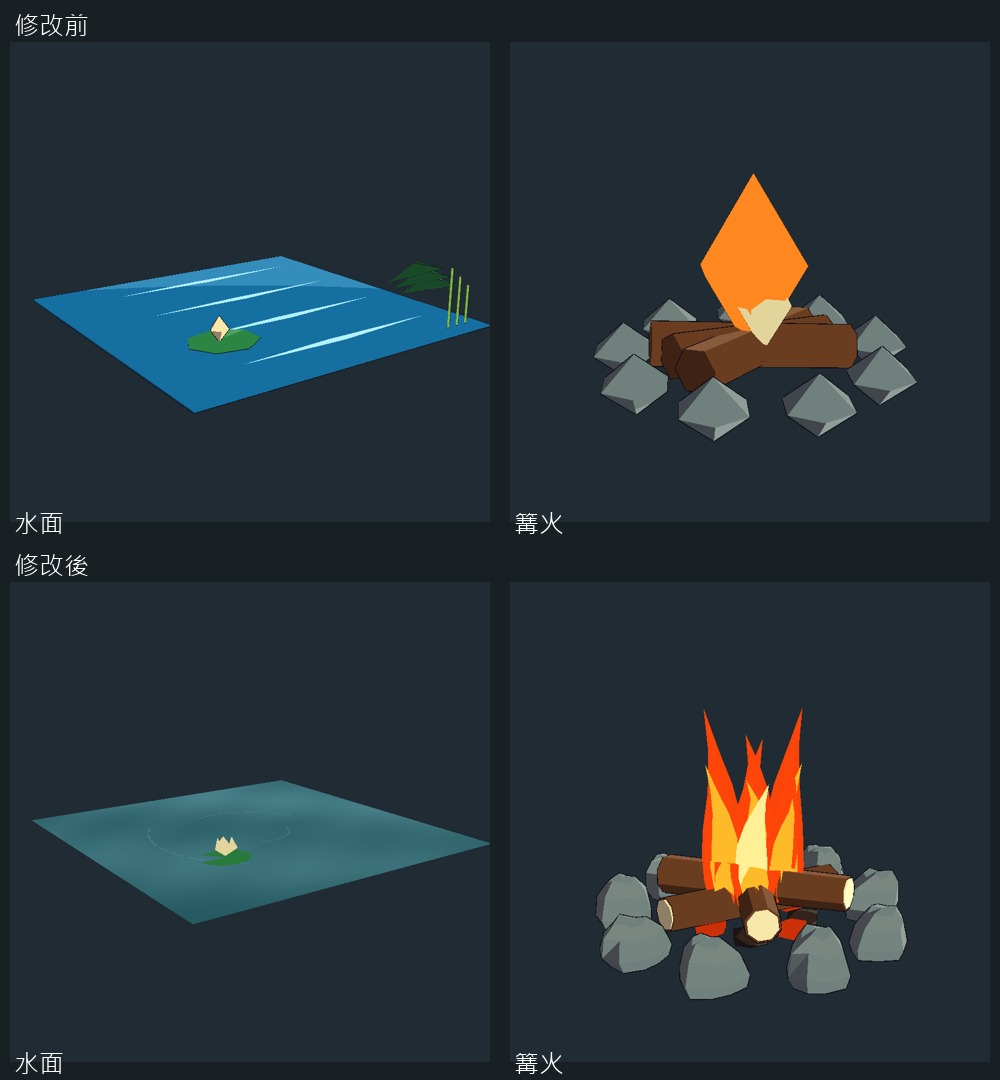
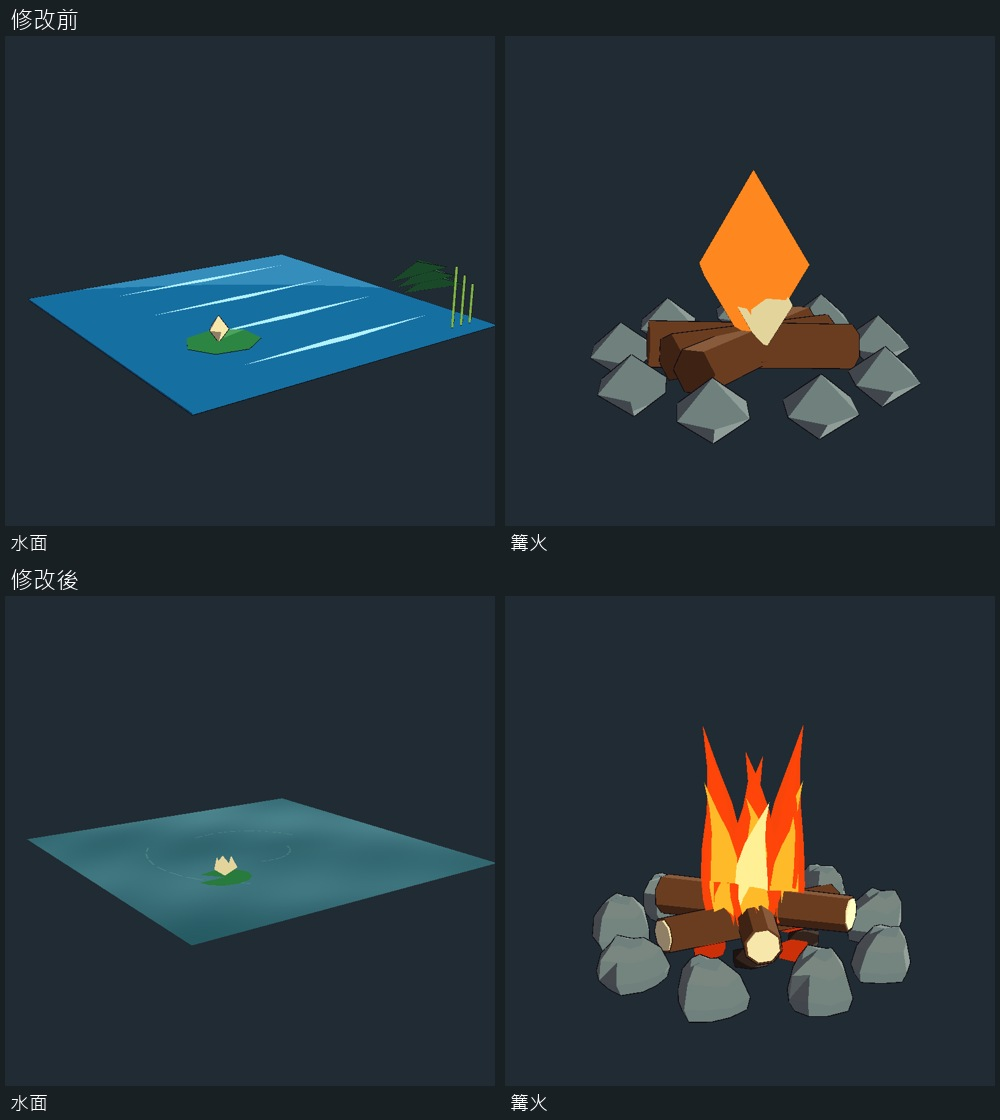
docs(explore): verify complete lake and refined forest art on Android and iOS [skip ci]

diff --git a/spellduel-unity/Docs/pending_preview/explore_jungle/README.md b/spellduel-unity/Docs/pending_preview/explore_jungle/README.md
@@ -17,7 +17,7 @@
 | 9 NPC | 長老、獵人、探險家、守衛、草藥師、守林人、森林之靈 | npc_overview.jpg |
 | 10～11 提示 | 驚嘆號、問號、求援標記、地名橫幅 | animation_keyframes.jpg |
 
-這是美術工廠與原生測試場景的交付；正式探索模式的接線仍由 Claude 負責。不可把這些圖片當成已完成手機 AR 整合實測的證明。
+Claude 已於 a5a4627 將整套美術及天空接入正式探索模式。本目錄是 Unity 原生模型預覽，仍不可當成已完成手機 AR 實機測試的證明。
 
 ## 放置契約
 
@@ -56,9 +56,9 @@
 
 網格依類型與有限變體鍵共用；材質共用。Factory 不增加 Collider。牆驗證逐一斷言三角形 ≤300、頂點限制在 3m 格子內。狀態可反覆切換，重新生成後共用既有 mesh／material。全圖只為預覽，遊戲仍由既有程式限制 24m 附近生成。
 
-最新原生 Unity run 41140438468（a596434，包含 c840328 的美術）成功，輸出 76 張場景 PNG 與 16 張靜態首尾圖。24 組牆變體通過 ≤300 三角形、格子邊界與無 Collider 檢查；封印切換與 mesh／material 快取檢查通過。16 張圖通過 960×544、四角純黑／綠幕與四周留白檢查。詳見 native_ci.json、explore_*_audit.json、keyframe_validation.json。
+最新原生 Unity run 41143467122（6049a45）成功，輸出 76 張場景 PNG 與 16 張靜態首尾圖。24 組牆變體通過 ≤300 三角形、格子邊界與無 Collider 檢查；封印切換與 mesh／material 快取檢查通過。16 張圖通過 960×544、四角純黑／綠幕與四周留白檢查。另通過 fullLakeWithEdgeOnlyStreaming，確認只建立邊緣水格時湖心仍完整。詳見 native_ci.json、explore_*_audit.json、keyframe_validation.json。
 
-已目視複查新葉片群、加高樹木、三類岩石、帳篷與角色等比例圖、水材質／岸邊、篝火及 60m 視距下的天空／雲／遠林。當前雙平台 run 41140438464 的 iOS 匯出已成功，Android 與 IPA 仍執行中，結果另補。舊 platform_ci.json 是前一批證據，不能代替本批結果。AR 實機視野與動畫影片接線仍需整合端驗收。
+已目視複查新葉片群、加高樹木、三類岩石、帳篷與角色等比例圖、水材質／岸邊、篝火及 60m 視距下的天空／雲／遠林。雙平台 run 41143467000（6049a45）的 Android 建置、iOS 匯出與 IPA 編譯均成功，證據見 platform_ci.json。Android APK 已發布。AR 實機視野與動畫影片接線仍需整合端驗收。
 
 ## 2026-10-31 造型重修
 
@@ -70,8 +70,14 @@
 - 篝火改不規則石圈、木柴切面、炭塊與多層彎曲火舌；Fire 掛點與 fx_D3_fire.png 檔名不變，動畫 session 請使用更新的靜態圖。
 - 新圖：explore_tree_variation_lineup.png、explore_thicket_variation_lineup.png、explore_tent_scale.png、refinement_before_after.jpg、water_fire_before_after.jpg。帳篷對照使用真正的 MinionRig 9 與 CharacterRig 劍士，沒有放大／縮小比較角色。前後單件總覽各自取景，只比較輪廓；實際比例請看 explore_tent_scale.png。
 
-### 天空整合（Claude 接線）
+### 天空整合（a5a4627 已接線）
 
-進入探索時呼叫一次 `ExploreArt.CreateBackdrop(map)`，以 `SetParent(exRoot,false)` 保留已設定的地圖中心 localPosition；退出探索時跟世界根物件一同移除。不要放進 24m 格子串流。子物件包含 SkyDome、Sun、Cloud_*、DistantForest_*。本批不改 SoloBattle.Explore.cs。
+進入探索時呼叫一次 `ExploreArt.CreateBackdrop(map)`，以 `SetParent(exRoot,false)` 保留已設定的地圖中心 localPosition；退出探索時跟世界根物件一同移除。不要放進 24m 格子串流。子物件包含 SkyDome、Sun、Cloud_*、DistantForest_*。上述呼叫已由 Claude 接入 SoloBattle.Explore.cs；本批美術修正沒有修改該檔案。
 
 遠景 shader 將場地外的天空／雲／林帶沿原視線顯示在遠平面內；不寫深度、不投影，保持在近處敵人後方。相容目前遊戲相機 60m 遠裁切，不需更改 GameRoot。原生第一人稱圖使用同樣 60m 視距，俯視圖另加長視距並隱藏天空。新 shader 都在 Resources/Shaders，避免手機建置剔除。
+
+### 整合後湖面完整性
+
+CreateLandmark(lake) 的 LakeSurface 依實際 Water 格建立完整共用水面；即使遊戲只串流岸邊水格，湖心仍完整覆蓋。水面寫入深度，避免與串流格重疊產生色差。原生預覽按相同的邊緣格規則建立場景，並斷言水面覆蓋所有水格。
+
+六項前後比較見 `refinement_all_before_after.jpg`；水面及篝火近景見 `water_fire_before_after.jpg`。
